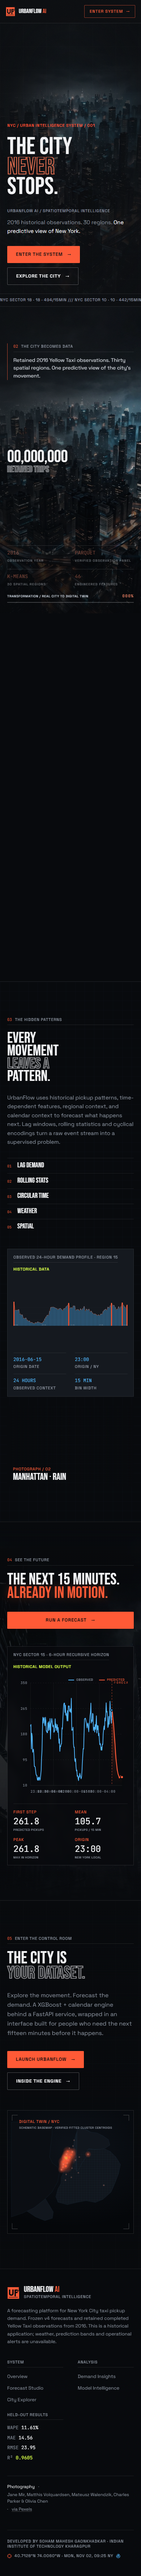
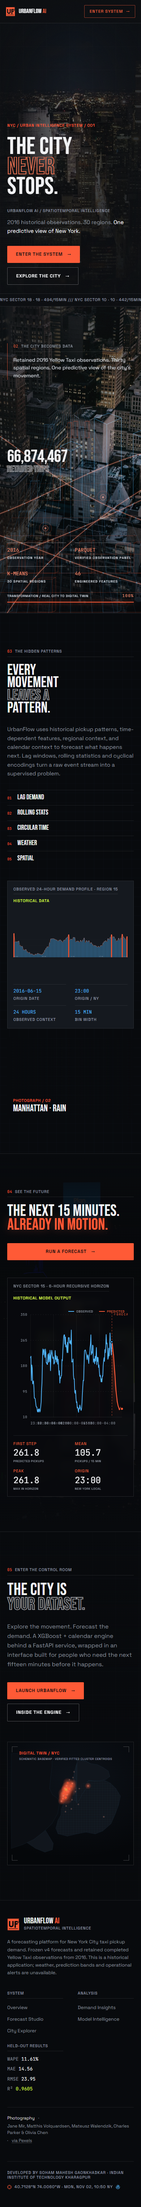
Use exact reference-video photographs in cinematic homepage

diff --git a/frontend/src/home/Homepage.tsx b/frontend/src/home/Homepage.tsx
@@ -10,11 +10,11 @@ import {
   AnimatePresence,
 } from "framer-motion";
 import { ArrowDown, Crosshair, Radar } from "lucide-react";
-import heroImg from "/images/hero-manhattan.jpg?inline";
-import twinImg from "/images/digital-twin.jpg?inline";
-import streetImg from "/images/street-rain.jpg?inline";
-import canyonImg from "/images/times-canyon.jpg?inline";
-import crossImg from "/images/aerial-intersection.jpg?inline";
+import heroImg from "@/assets/hero-manhattan.jpg?inline";
+import twinImg from "@/assets/digital-twin.jpg?inline";
+import streetImg from "@/assets/street-rain.jpg?inline";
+import canyonImg from "@/assets/times-canyon.jpg?inline";
+import crossImg from "@/assets/aerial-intersection.jpg?inline";
 import ForecastChart from "@/components/ForecastChart";
 import CityMap from "@/components/CityMap";
 import CityTransformation from "@/home/CityTransformation";

diff --git a/docs/PHOTO_REFRESH.md b/docs/PHOTO_REFRESH.md
@@ -1,0 +1,19 @@
+# Reference-video photo refresh — November 2, 2026
+
+The five homepage image files were replaced with the exact photographs shown in the user's screen recording. ZIPs (7) and (8) referred to missing source assets while retaining the old public artwork. The public frontend URL visible in the recording was located, and its embedded JPEGs were recovered using its normal iframe request context.
+
+All five recovered SHA-256 hashes match the intended image hashes in the supplied ZIP's `tests/imagery.spec.ts`. This is exact asset identity, rather than a similarity-based replacement. See [photo provenance](photo-provenance.json) for filenames, hashes, credits, located photo pages and the recorded site's URL. Photographer credits come from the supplied reference README; four Pexels photo pages were independently located.
+
+The photographs now live in `frontend/src/assets` and are imported with `?inline`; matching `public/images` copies retain existing direct URLs. The rebuilt single-file production HTML was checked to contain every exact JPEG. No remote photo host is required at application runtime.
+
[1 lines of base64/hex data omitted]
+
+Validation:
+
+- `npm run typecheck`: passed.
+- `npm run build`: passed; production HTML approximately 3.3295 MB.
+- All five source/public image hashes and inlined production bytes: verified.
+- Existing cinematic/navigation suite: 20 of 21 passed on the initial run; one initial-homepage-load timeout was rerun twice and passed both times without source/test changes. All 21 distinct checks were verified.
+- Actual production preview: desktop/mobile renders, genuine backend data and zero browser runtime errors verified.
+
+Updated previews: [desktop](screenshots/home-photos-desktop.png), [mobile](screenshots/home-photos-mobile.png), and the README's full homepage screenshots. The research repository is unaffected.

diff --git a/README.md b/README.md
@@ -77,7 +77,7 @@ Region IDs are the fitted model's IDs. `/regions` computes each centroid as `sca
 - **Demand Insights:** two genuine regional forecasts at one origin/horizon, derived summaries and genuine preceding observations. Past versus predicted summary bars refer to separate intervals, not a forecast-accuracy comparison.
 - **Model Intelligence:** real backend metadata and verified June metrics. Weather, validated whole-model feature attribution, calibrated prediction intervals and operational alerts are unavailable.
 
-The exact supplied cinematic ZIP supplies the assets, original CSS, scene sequence, typography, chart components and animation logic. Corrections change data, labels, loading/errors and functional controls. Before/after browser captures and asset hashes are in `docs/visual-baseline`, `docs/screenshots`, `docs/visual-comparison.png` and `docs/template-design-manifest.json`. Original template test sources are archived in `docs/original-template-tests`; adapted behavior tests and genuine-data acceptance tests run from `frontend/tests`.
+The supplied cinematic design retains its original CSS, scene sequence, typography, chart components and animation logic. The five homepage photographs were subsequently refreshed to the exact images shown in the user's reference recording; see [photo provenance](docs/photo-provenance.json). Source photos live in `frontend/src/assets` and are inlined into the build, with matching public copies for existing image URLs. The earlier template hash manifest and baseline screenshots document the original integration before this requested photo refresh. Corrections change data, labels, loading/errors and functional controls. Before/after browser captures and asset hashes are in `docs/visual-baseline`, `docs/screenshots`, `docs/visual-comparison.png` and `docs/template-design-manifest.json`. Original template test sources are archived in `docs/original-template-tests`; adapted behavior tests and genuine-data acceptance tests run from `frontend/tests`.
 
 ![Forecast Studio](docs/screenshots/forecast.png)
 ![City Explorer](docs/screenshots/explorer.png)

diff --git a/FINAL_INTEGRATION_REPORT.md b/FINAL_INTEGRATION_REPORT.md
@@ -184,3 +184,8 @@ Open `http://127.0.0.1:5173`; API documentation is at `http://127.0.0.1:8000/doc
 Docker CLI 29.7.2 is installed, but its `desktop-linux` engine pipe was absent. Compose syntax was validated; container build/run is explicitly untested. The equivalent clean Python install, actual HTTP service, TypeScript/production build, production preview and browser suite were verified.
 
 This is historical 2016 inference for the retained completed-trip target. Current operations require a compatible as-of observation feed and new validation. Weather, calibrated prediction bands, whole-hybrid attribution, operational alerts and verified cluster polygons are unavailable. The July holiday confirmation remains unexecuted because compatible complete coordinate-bearing data was not established. These limitations are preserved in both README files and the model/API capability metadata.
+
+
+## Follow-up: reference-video photo refresh
+
+The user subsequently requested the photographs shown in a screen recording. All five exact JPEGs were recovered from the public reference frontend and verified against the image hashes listed in ZIP (8). Source assets, public copies, image imports and homepage previews were updated; forecasting/model/backend code was untouched. The original asset-hash claims above describe the initial integration, before this requested refresh. See [photo refresh validation](docs/PHOTO_REFRESH.md) and [asset provenance](docs/photo-provenance.json).
